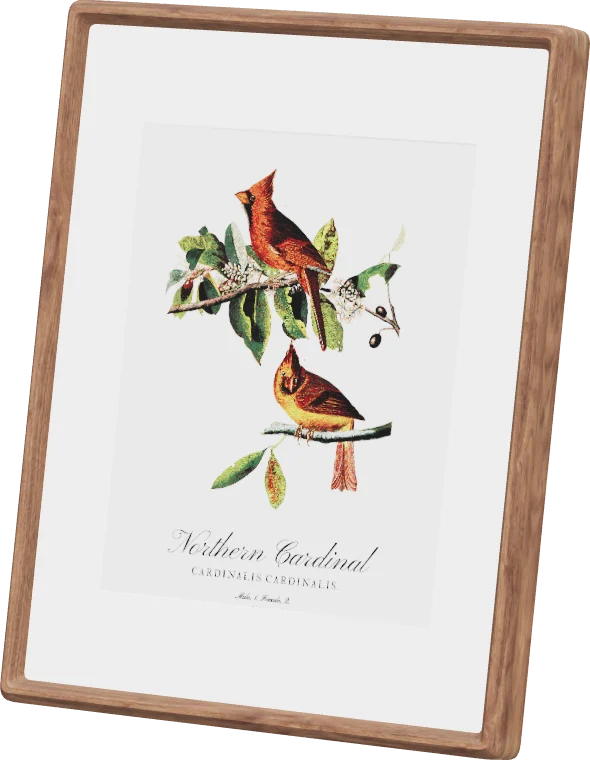
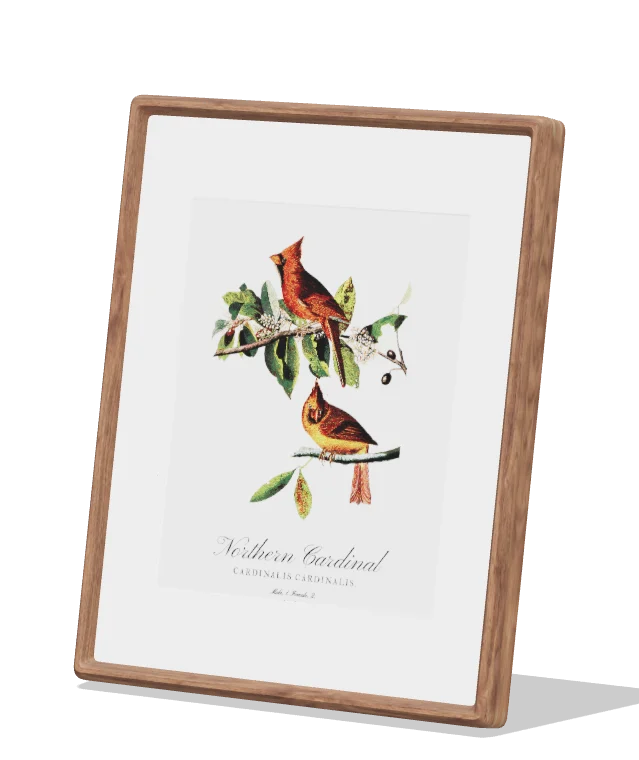
featherframe.app: the wall's last frame tears off and leans back on III's white table
The table is CSS behind the canvas (a soft wall, a crisp horizon, the top lightening toward us);
the frame casts its own shadow on a shadow-only floor from a light that lights nothing, plus a soft
contact shadow that comes in as it lands, and repaints to the cardinal. Phones and reduced motion
show stills rendered by scripts/wall.mjs instead. The page clips its own horizontal overflow.

diff --git a/site/src/viewer.ts b/site/src/viewer.ts
@@ -18,8 +18,9 @@
 // which is what lets the gallery wall's still images (renders of this very
 // pose) take over from the live frame without a jump.
 import {
-  ACESFilmicToneMapping, Box3, Color, Group, MathUtils, Matrix4, Mesh, MeshStandardMaterial, PerspectiveCamera,
-  PMREMGenerator, Scene, SRGBColorSpace, Vector3, WebGLRenderer,
+  ACESFilmicToneMapping, Box3, Color, DirectionalLight, Group, MathUtils, Matrix4, Mesh, MeshStandardMaterial,
+  PCFShadowMap, PerspectiveCamera, PlaneGeometry, PMREMGenerator, Scene, ShadowMaterial, SRGBColorSpace, Vector3,
+  WebGLRenderer,
 } from 'three';
 import { GLTFLoader } from 'three/examples/jsm/loaders/GLTFLoader.js';
 import { MeshoptDecoder } from 'three/examples/jsm/libs/meshopt_decoder.module.js';
@@ -27,20 +28,22 @@ import { RoomEnvironment } from 'three/examples/jsm/environments/RoomEnvironment
 import { createEpaperRefresh, type EpaperRefresh } from './epaper-refresh';
 import type { Size } from './card';
 
-export interface Pose { yaw: number; lean: number; pitch: number }
+/** `ground`: how much of its shadow on a table beneath it shows, 0–1. */
+export interface Pose { yaw: number; lean: number; pitch: number; ground: number }
 export interface Rect { x: number; y: number; w: number; h: number }
 
 /** The hero's three-quarter view on its kickstand, seen from a little above. */
-export const HERO: Pose = { yaw: -0.42, lean: 1, pitch: 0.1 };
+export const HERO: Pose = { yaw: -0.42, lean: 1, pitch: 0.1, ground: 0 };
 /** Dead-on: upright, the face parallel to the screen. */
-export const FLAT: Pose = { yaw: 0, lean: 0, pitch: 0 };
+export const FLAT: Pose = { yaw: 0, lean: 0, pitch: 0, ground: 0 };
 /** On the table in III, leaning back on its kickstand. */
-export const TABLE: Pose = { yaw: -0.5, lean: 1, pitch: 0.16 };
+export const TABLE: Pose = { yaw: -0.5, lean: 1, pitch: 0.16, ground: 1 };
 
 export const lerpPose = (a: Pose, b: Pose, t: number): Pose => ({
   yaw: a.yaw + (b.yaw - a.yaw) * t,
   lean: a.lean + (b.lean - a.lean) * t,
   pitch: a.pitch + (b.pitch - a.pitch) * t,
+  ground: a.ground + (b.ground - a.ground) * t,
 });
 
 const LEAN = MathUtils.degToRad(12); // the authored kickstand lean
@@ -51,6 +54,11 @@ const DISTANCE = 3;                  // metres from the frame's middle; the fram
 // These keep the wood walnut and the screen's paper level with the white mat.
 const EXPOSURE = 0.9;
 const ENVIRONMENT = 0.7;
+// The table's shadow: a light that lights nothing (so the frame looks as it
+// does everywhere else) but casts the frame onto a shadow-only floor, from
+// above and in front, so it falls back toward the wall, crisp where the frame
+// meets the table. SHADOW is its darkness at full `ground`.
+const SHADOW = 0.2;
 // How long each picture holds in the hero's cycle: well over twice the colour
 // refresh (about 5.5 s), so the frame reads as a picture that sometimes
 // changes, not as a frame forever refreshing. `?hold=` overrides it for tests.
@@ -110,6 +118,9 @@ export async function loadFrame(size: Size, opts: {
   renderer.toneMapping = ACESFilmicToneMapping;
   renderer.setClearColor(0x000000, 0);
   renderer.toneMappingExposure = EXPOSURE;
+  renderer.shadowMap.enabled = true;
+  renderer.shadowMap.type = PCFShadowMap;
+  renderer.shadowMap.autoUpdate = false;
 
   const scene = new Scene();
   const pmrem = new PMREMGenerator(renderer);
@@ -155,6 +166,23 @@ export async function loadFrame(size: Size, opts: {
   yaw.add(lean);
   pitch.add(yaw);
   scene.add(pitch);
+
+  model.traverse((o) => { if ((o as Mesh).isMesh) o.castShadow = true; });
+  const shadowMaterial = new ShadowMaterial({ opacity: 0, depthWrite: false });
+  const floor = new Mesh(new PlaneGeometry(2, 2), shadowMaterial);
+  floor.rotation.x = -Math.PI / 2;
+  floor.position.y = -centre.y - 0.0005; // the GLB rests on y = 0
+  floor.receiveShadow = true;
+  floor.visible = false;
+  yaw.add(floor);
+  const sun = new DirectionalLight(0xffffff, 0);
+  sun.position.set(-0.2, 1.6, 0.3);
+  sun.castShadow = true;
+  sun.shadow.mapSize.set(2048, 2048);
+  sun.shadow.radius = 3;
+  sun.shadow.bias = -0.0004;
+  Object.assign(sun.shadow.camera, { left: -0.45, right: 0.45, top: 0.45, bottom: -0.45, near: 0.2, far: 3 });
+  yaw.add(sun, sun.target);
 
   // The fixed camera, and its projection at aspect 1: the picture every fit scales and shifts.
   const camera = new PerspectiveCamera(FOV, 1, DISTANCE - 1, DISTANCE + 1);
@@ -245,6 +273,11 @@ export async function loadFrame(size: Size, opts: {
       pitch.rotation.set(pose.pitch, 0, 0);
       yaw.rotation.set(0, pose.yaw + sway, 0);
       lean.rotation.set(LEAN * (1 - pose.lean), 0, 0);
+      floor.visible = pose.ground > 0.001;
+      shadowMaterial.opacity = SHADOW * pose.ground;
+      // Drawn only while the floor shows — but once before anything else, so
+      // the shadow map exists for every material's shadow sampler.
+      renderer.shadowMap.needsUpdate = floor.visible || !drawn;
       renderer.render(scene, camera);
       drawn = true;
     },
@@ -256,6 +289,9 @@ export async function loadFrame(size: Size, opts: {
         m.geometry.dispose();
         (m.material as MeshStandardMaterial).dispose();
       });
+      floor.geometry.dispose();
+      shadowMaterial.dispose();
+      sun.shadow.dispose();
       disposeAll();
       renderer.forceContextLoss();
       canvas.remove();

diff --git a/site/src/choreo.ts b/site/src/choreo.ts
@@ -120,6 +120,8 @@ interface State {
   screen: Screen | null;
   /** 0 at the hero, 1 once the frame has left it. */
   lift: number;
+  /** 0 until the frame sets off for the table, 1 once it is on it. */
+  land: number;
 }
 
 function at(l: Layout, s: number): State {
@@ -150,7 +152,8 @@ function at(l: Layout, s: number): State {
   else if (i > tearAt + 1 || (i === tearAt + 1 && s >= stop.s0)) screen = 'cardinal';
   else if (i === tearAt) screen = 'oriole';
   else screen = t >= 0.75 ? 'cardinal' : t <= 0.5 ? 'oriole' : null;
-  return { rect, pose, sway: 1 - fromHero, landed, torn, screen, lift: fromHero };
+  const land = i > tearAt + 1 ? 1 : i === tearAt + 1 ? (s >= stop.s0 ? 1 : t) : 0;
+  return { rect, pose, sway: 1 - fromHero, landed, torn, screen, lift: fromHero, land };
 }
 
 interface Els {
@@ -221,13 +224,14 @@ export async function startPage(size: Size, opts: {
     applyScreen(st);
     const r = frame.refresh.tick(now);
     const sway = opts.poster || !st.sway ? 0 : Math.sin(((now - t0) / 1000) * (2 * Math.PI / SWAY_PERIOD)) * SWAY * st.sway;
-    const key = st.rect ? `${st.rect.x},${st.rect.y},${st.rect.w},${st.rect.h},${st.pose.yaw},${st.pose.lean},${st.pose.pitch},${sway}` : '';
+    const key = st.rect ? `${st.rect.x},${st.rect.y},${st.rect.w},${st.rect.h},${st.pose.yaw},${st.pose.lean},${st.pose.pitch},${st.pose.ground},${sway}` : '';
     if (r.changed || dirty || key !== lastKey) {
       frame.draw(st.rect, st.pose, sway);
       frame.canvas.classList.toggle('empty', !st.rect);
       dirty = false;
       lastKey = key;
       root.style.setProperty('--lift', st.lift.toFixed(3));
+      root.style.setProperty('--land', st.land.toFixed(3));
       if (frame.drawn && !reveal) {
         // Live (poster out, canvas in) on the rAF after the first real draw, once it is on screen.
         reveal = requestAnimationFrame(() => {
@@ -264,6 +268,7 @@ export async function startPage(size: Size, opts: {
     els.wall?.classList.remove('landed', 'torn');
     els.stage.classList.remove('live');
     root.style.removeProperty('--lift');
+    root.style.removeProperty('--land');
     frame?.dispose();
     frame = null;
   };
@@ -354,6 +359,10 @@ export async function startStage(stage: HTMLElement, size: Size, opts: {
  * sizes the viewport to the pose's aspect and captures it; the page says
  * `data-wall="ready"` on <html> once it has drawn.
  */
+/** Around the table's still, as shares of the frame's box: left, top, right,
+ *  bottom (styles.css places the image by the same numbers). */
+export const TABLE_PAD = [0.15, 0.15, 0.15, 0.05];
+
 export async function startWallRender(size: Size, which: string): Promise<void> {
   const table = which === 'table';
   const src = table ? size.wall.find((f) => f.includes('cardinal'))! : size.wall[Number(which)];
@@ -361,7 +370,8 @@ export async function startWallRender(size: Size, which: string): Promise<void> 
   const request = () => { if (!raf) raf = requestAnimationFrame(tick); };
   const frame = await loadFrame(size, { wake: request, keep: true, holdMs: 1e9 });
   const pose = table ? TABLE : FLAT;
-  document.documentElement.dataset.aspect = frame.aspect(pose).toFixed(5);
+  const [l, t, r, b] = table ? TABLE_PAD : [0, 0, 0, 0];
+  document.documentElement.dataset.aspect = (frame.aspect(pose) * (1 + l + r) / (1 + t + b)).toFixed(5);
   frame.canvas.className = 'ff3d live';
   document.body.prepend(frame.canvas);
   frame.refresh.show(src, true);
@@ -371,7 +381,10 @@ export async function startWallRender(size: Size, which: string): Promise<void> 
     const w = document.documentElement.clientWidth, h = document.documentElement.clientHeight;
     frame.setSize(w, h);
     frame.refresh.tick(now);
-    frame.draw({ x: 0, y: 0, w, h }, pose);
+    // the table's still leaves room around the frame for its shadow (TABLE_PAD)
+    const [l, t, r, b] = table ? TABLE_PAD : [0, 0, 0, 0];
+    const fw = w / (1 + l + r), fh = h / (1 + t + b);
+    frame.draw({ x: l * fw, y: t * fh, w: fw, h: fh }, pose);
     // a few frames on from the screen's picture reaching the glass
     if (frame.refresh.showing() !== src || ++settled < 5) request();
     else document.documentElement.dataset.wall = 'ready';

diff --git a/site/public/styles.css b/site/public/styles.css
@@ -50,7 +50,7 @@ h2 { font-weight: 400; text-wrap: balance; }
 }
 .btn:hover { background: #000; }
 
-.page { padding: 0 var(--m); }
+.page { padding: 0 var(--m); overflow-x: clip; } /* the cover's stage runs past the right edge */
 .folio {
   display: flex; justify-content: space-between; align-items: baseline;
   border-top: 1px solid var(--ink); padding-top: 12px; margin-bottom: 96px;
@@ -158,7 +158,25 @@ h2 { font-weight: 400; text-wrap: balance; }
 .t2 { grid-column: 1; grid-row: 2; }
 .t2 img { width: 100%; height: 100%; object-fit: cover; object-position: 62% 40%; }
 .t3 { grid-column: 2; grid-row: 1 / 3; align-self: end; }
-.t3 img { width: 100%; }
+/* The frame on a white table against a white wall: the wall's soft fall to
+   the horizon, a crisp line where the table's edge meets it, the table's top
+   lightening toward us. Behind the page's canvas (z-index -2), so the frame
+   stands in front of it. */
+.table { position: relative; padding: 16% 17% 9%; }
+.table::before {
+  content: ""; position: absolute; inset: 0; z-index: -2;
+  background: linear-gradient(to bottom, #fff 0%, #f6f6f4 72%, #e8e8e4 72%, #e8e8e4 calc(72% + 1px), #f1f1ee calc(72% + 1px), #fbfbfa 100%);
+  /* no edges of its own: it fades into the page at the sides */
+  -webkit-mask-image: linear-gradient(to right, transparent, #000 14%, #000 86%, transparent);
+  mask-image: linear-gradient(to right, transparent, #000 14%, #000 86%, transparent);
+}
+#table-slot { position: relative; aspect-ratio: 0.77576; }
+/* the still includes its own shadow: TABLE_PAD in choreo.ts */
+#table-slot .still { position: absolute; left: -15%; top: -15%; width: 130%; height: 120%; max-width: none; }
+/* where the frame's foot meets the table, soft away from it; the journey's
+   frame casts its own crisp shadow and brings this in as it lands */
+.contact { position: absolute; left: 2%; right: 10%; bottom: -4%; height: 9%; z-index: -2; pointer-events: none;
+           background: radial-gradient(closest-side, rgba(0, 0, 0, .1), transparent); opacity: var(--land, 1); }
 .tcap { grid-column: 1 / -1; grid-row: 3; margin: 22px 0 0; max-width: 70ch; color: var(--graphite); font-size: 17px; }
 .intro2.closing .lede { grid-column: 1 / 8; font-size: 19px; color: var(--text); }
 

diff --git a/site/test/site.spec.ts b/site/test/site.spec.ts
@@ -252,3 +252,35 @@ test('the frame lands in the wall\'s first place and hands over to its print', a
   await expect(page.locator('.wall')).not.toHaveClass(/\blanded\b/);
   await expect(page.locator('canvas.ff3d')).not.toHaveClass(/\bempty\b/);
 });
+
+test('past the wall its last frame tears off and lands on the table', async ({ page }) => {
+  await page.setViewportSize({ width: 1440, height: 900 });
+  await page.goto('/?hold=600000');
+  await expect(page.locator('canvas.ff3d')).toHaveClass(/\blive\b/, { timeout: 20_000 });
+  const last = page.locator('.wall .cat figure:last-child img');
+  await page.evaluate(() => scrollTo(0, document.getElementById('table-slot')!.getBoundingClientRect().top + scrollY - 200));
+  await expect(page.locator('.wall')).toHaveClass(/\btorn\b/);
+  await expect(last).toHaveCSS('visibility', 'hidden');
+  await expect(page.locator('canvas.ff3d')).not.toHaveClass(/\bempty\b/);
+  await expect(page.locator('#table-slot .still')).toHaveCSS('visibility', 'hidden');
+});
+
+for (const [name, setup] of [
+  ['on a phone', async (page: import('@playwright/test').Page) => { await page.setViewportSize({ width: 390, height: 844 }); }],
+  ['with reduced motion', async (page: import('@playwright/test').Page) => { await page.emulateMedia({ reducedMotion: 'reduce' }); }],
+] as const) {
+  test(`${name} there is no journey: the stills show`, async ({ page }) => {
+    await setup(page);
+    await page.goto('/?hold=600000');
+    await page.waitForTimeout(3000);
+    await expect(page.locator('canvas.ff3d')).toHaveCount(0);
+    await expect(page.locator('html')).not.toHaveClass(/\bchoreo\b/);
+    for (const sel of ['#art-slot .still', '#table-slot .still', '.wall .cat figure:first-child img', '.wall .cat figure:last-child img']) {
+      await page.locator(sel).scrollIntoViewIfNeeded();
+      await expect(page.locator(sel)).toBeVisible();
+      await expect.poll(() => page.locator(sel).evaluate((i: HTMLImageElement) => i.complete && i.naturalWidth > 0)).toBe(true);
+    }
+    const [sw, cw] = await page.evaluate(() => [document.documentElement.scrollWidth, document.documentElement.clientWidth]);
+    expect(sw).toBeLessThanOrEqual(cw);
+  });
+}

diff --git a/site/public/index.html b/site/public/index.html
@@ -85,7 +85,7 @@
       <audio id="song" src="audio/cardinal-song.mp3" preload="none"></audio>
     </figure>
     <figure class="t2"><img src="img/hidden-cardinal.webp" alt="A Northern Cardinal among bare winter branches" width="1800" height="1203" loading="lazy"></figure>
-    <figure class="t3"><img src="img/frame-cardinal.webp" alt="The frame showing the Northern Cardinal from The Birds of America" width="900" height="1159" loading="lazy"></figure>
+    <figure class="t3"><div class="table"><div class="slot" id="table-slot"><span class="contact" aria-hidden="true"></span><img class="still" src="img/wall/table-13-cardinal.webp" alt="The frame showing the Northern Cardinal from The Birds of America" width="639" height="760" loading="lazy"></div></div></figure>
     <p class="tcap it">A Northern Cardinal, heard at 07:02 and seen only if you are lucky. On the frame, it appears as it was printed nearly two hundred years ago.</p>
   </div>
   <div class="intro2 closing"><p class="lede">BirdWeather is a public map of listening stations in gardens and parks around the world. Each one uses BirdNET, software from the Cornell Lab of Ornithology, to name the birds it hears. Choose a station near you, or near somewhere you love: a parent’s garden, or the coast you visit every summer. When it names a species, the frame shows it. You can also add a station of your own.</p></div>
